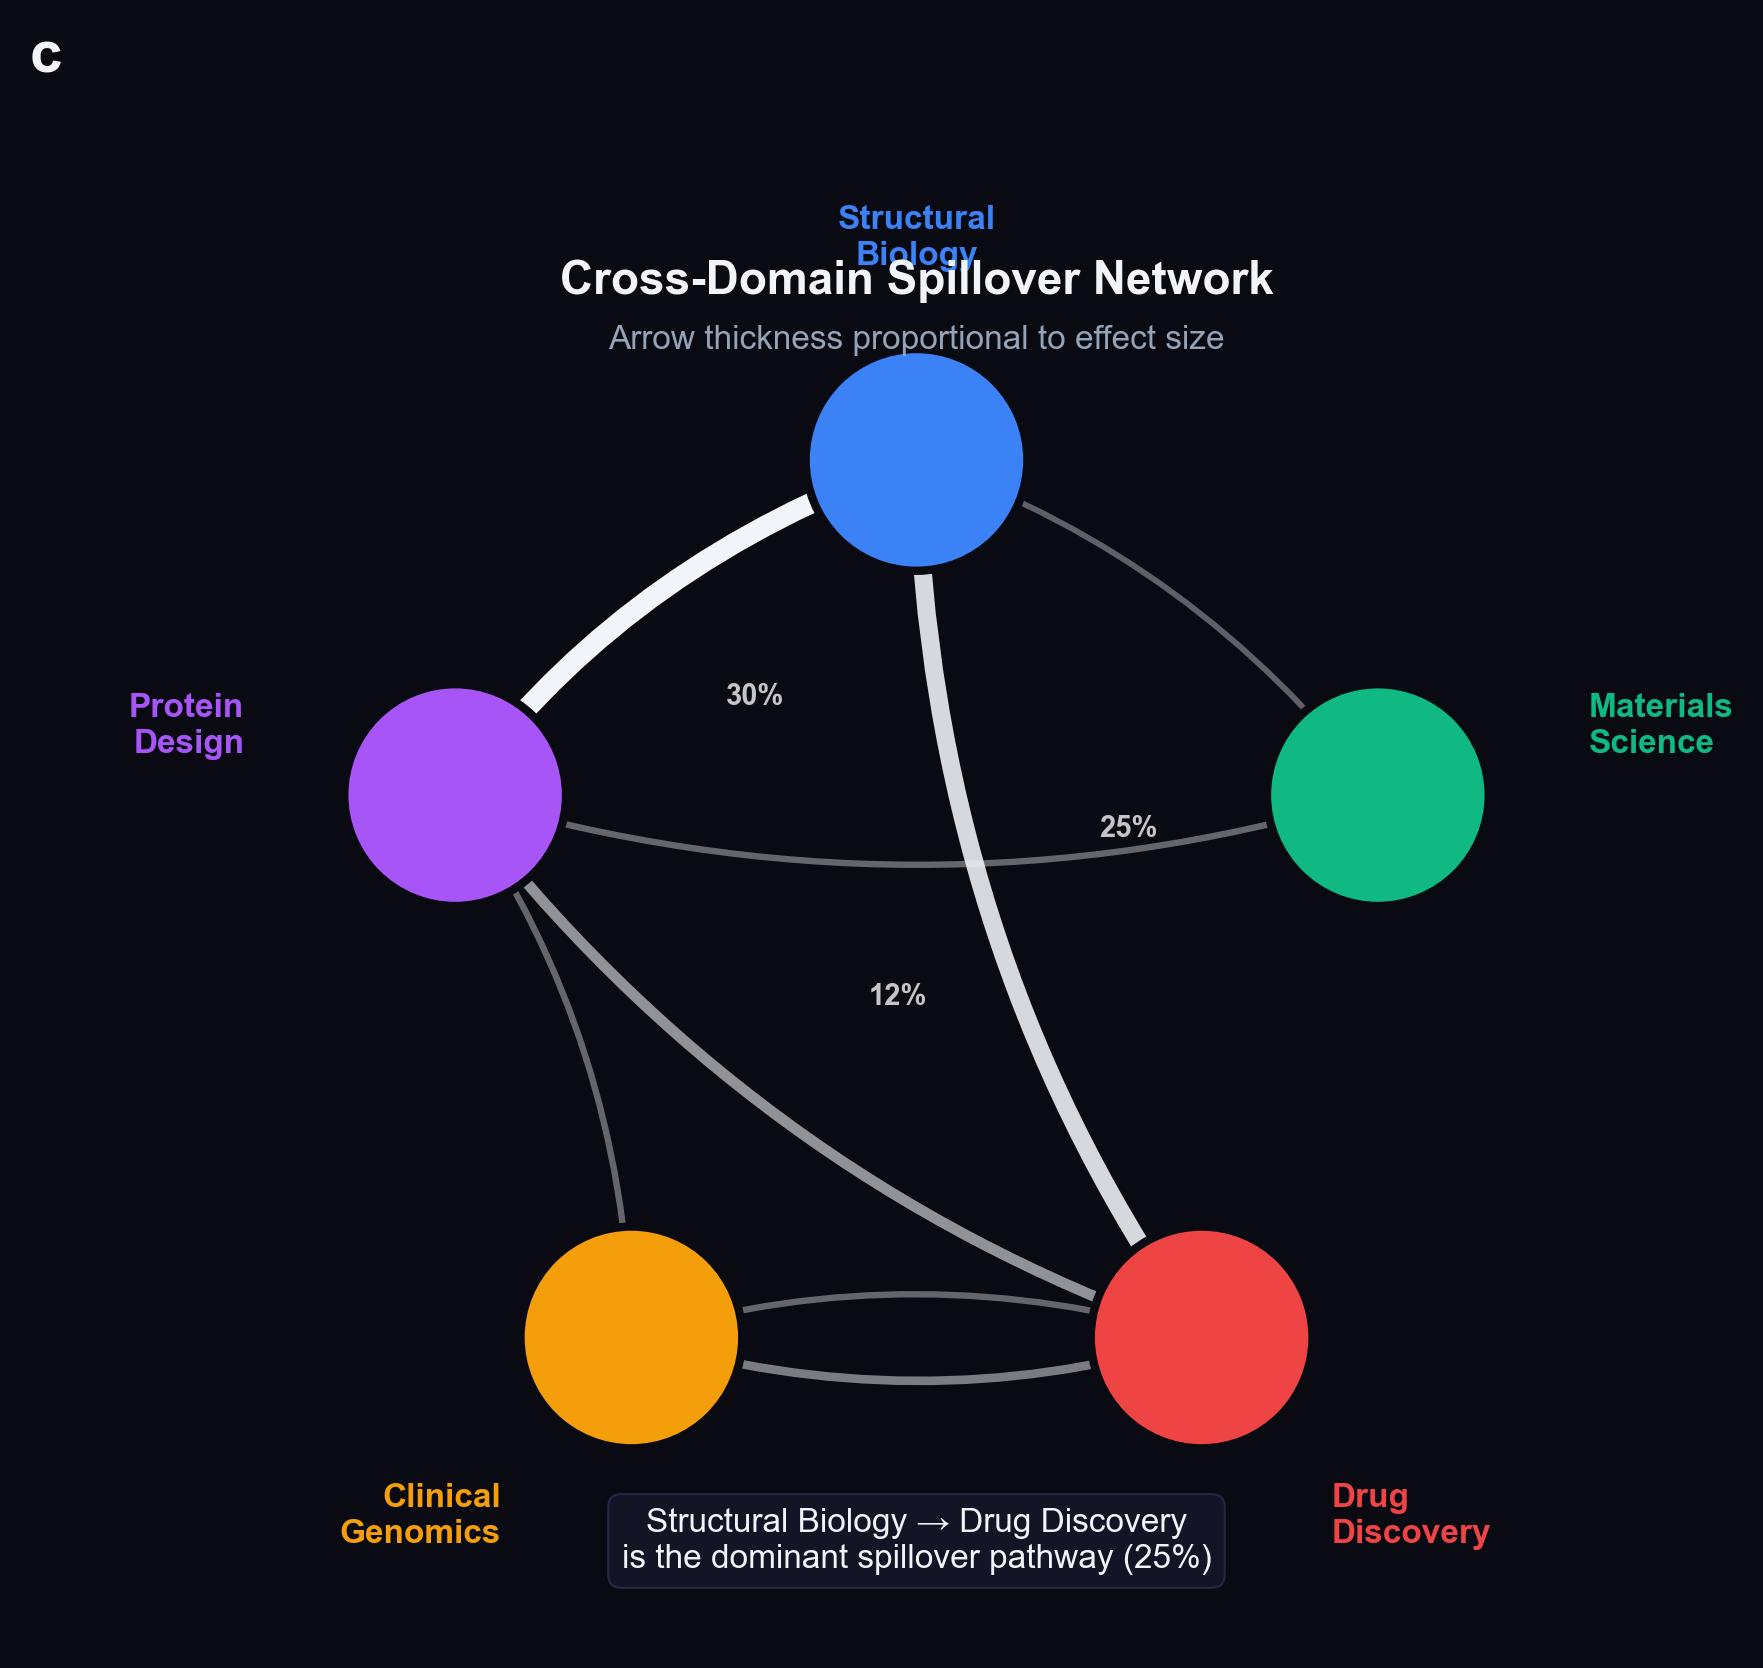
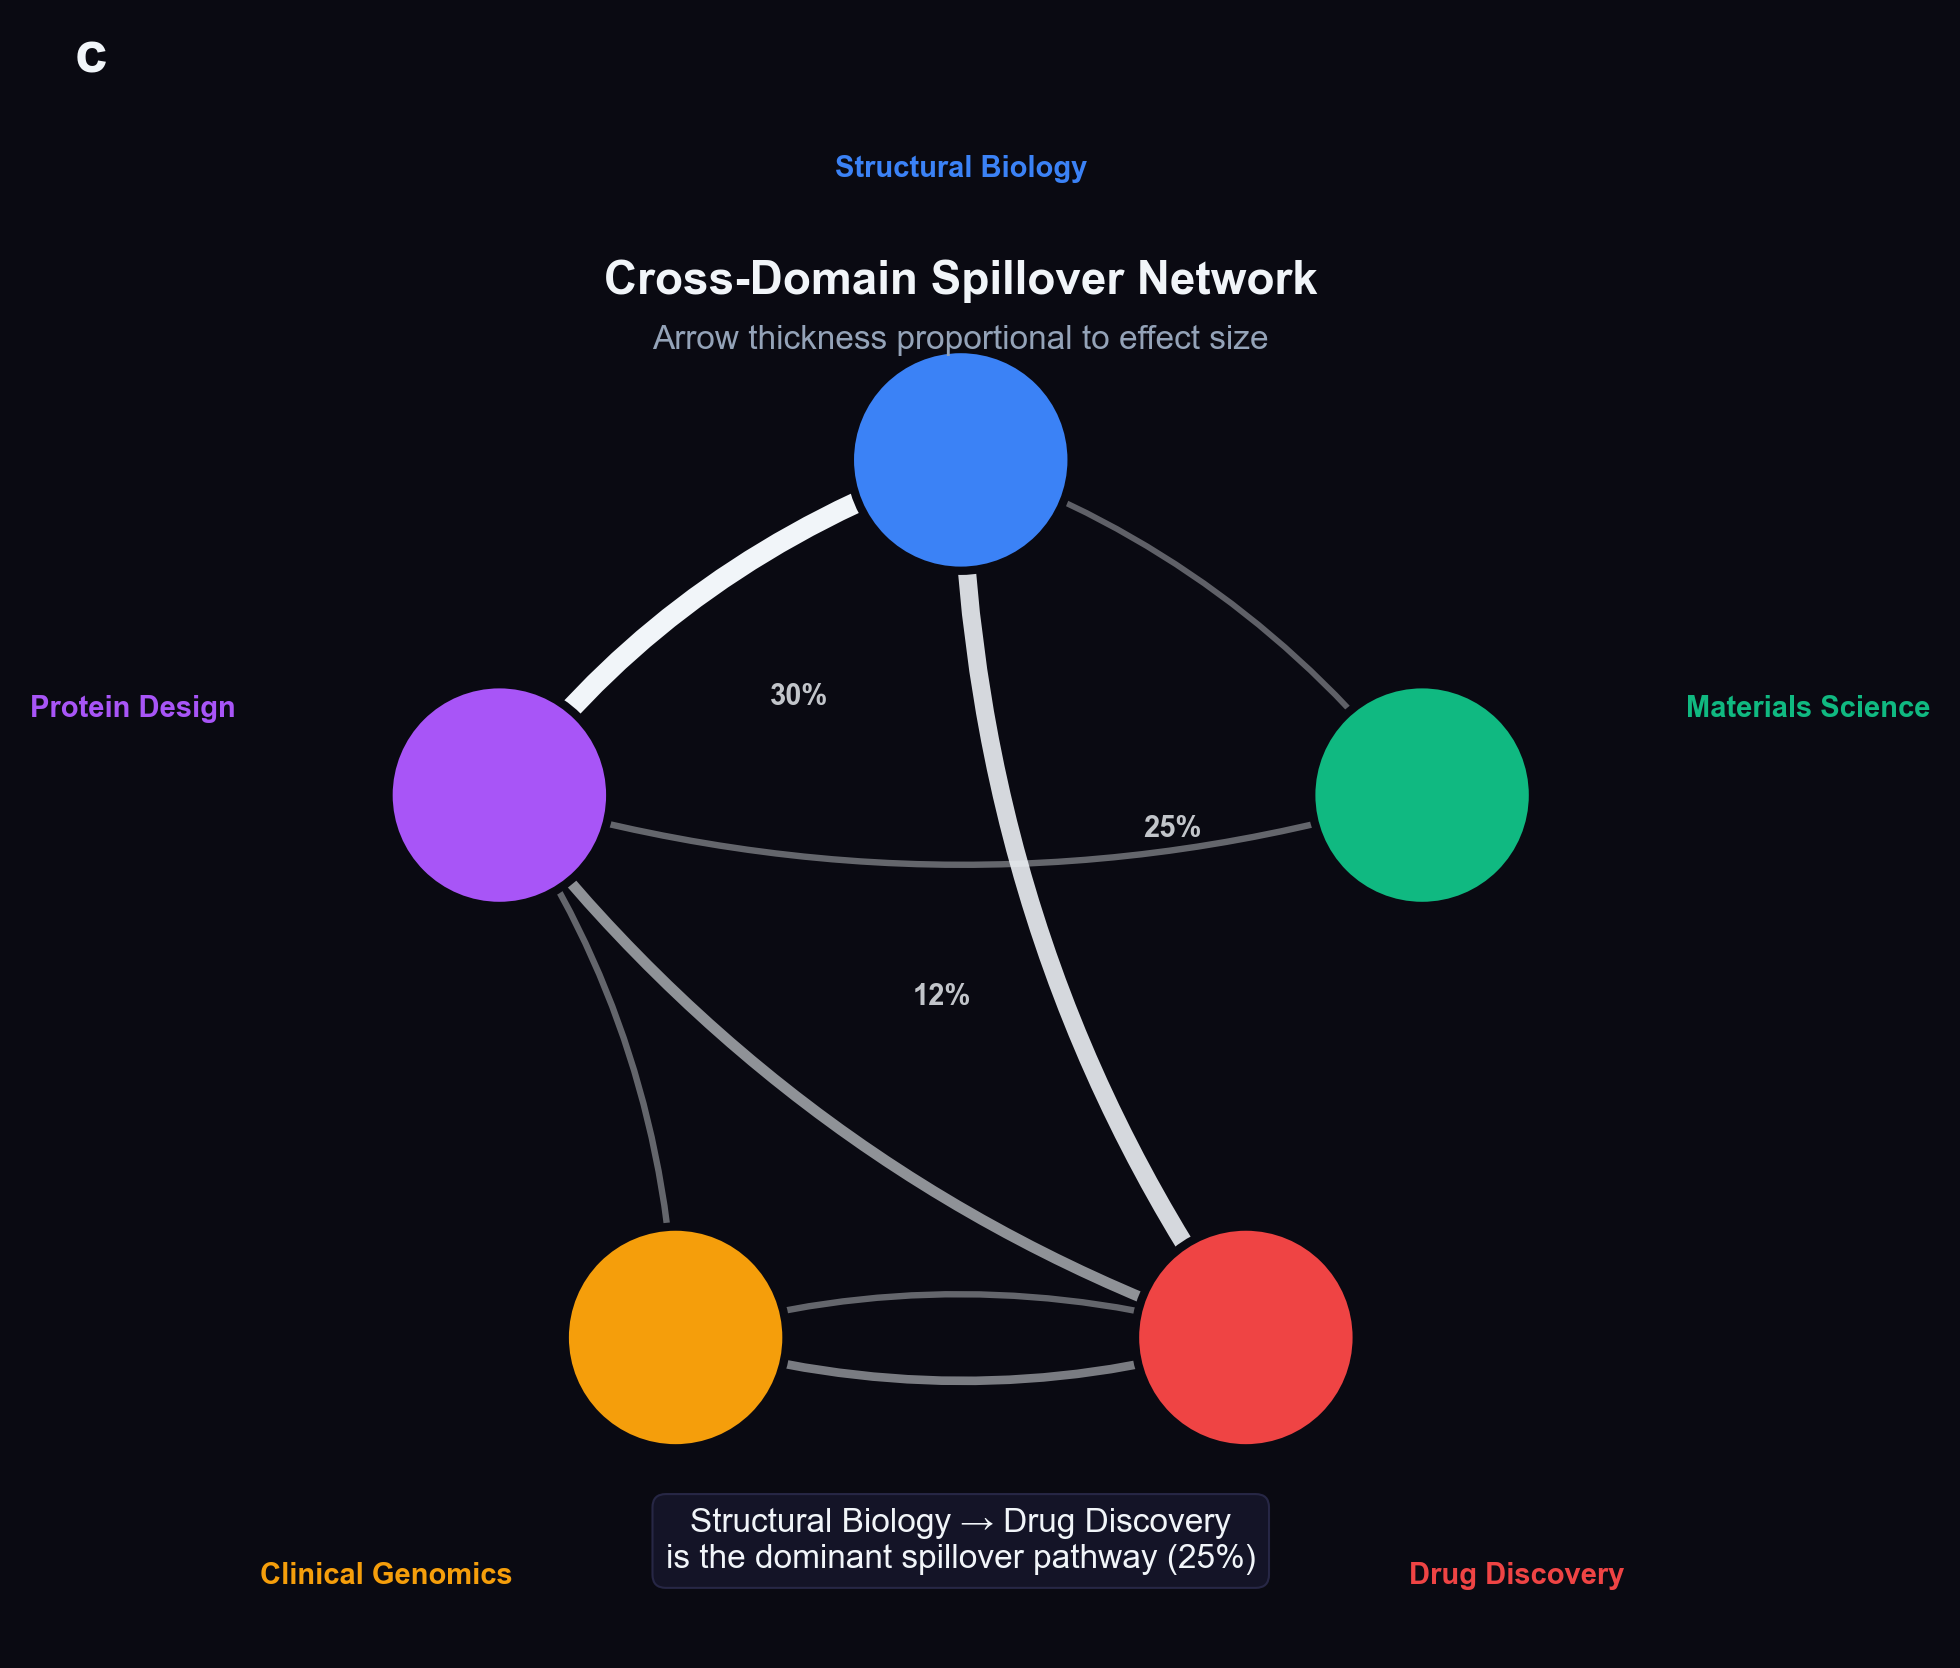
Fix overlapping text labels in spillover network figure
- Changed multi-line labels to single-line
- Increased label distance from nodes (0.08 → 0.12)
- Improved horizontal and vertical alignment logic

🤖 Generated with [Claude Code](https://claude.com/claude-code)

diff --git a/ai_research_acceleration_model/v1.1/visualizations.py b/ai_research_acceleration_model/v1.1/visualizations.py
@@ -417,6 +417,15 @@ def figure3_spillover_network():
 
     # Draw nodes
     node_size = 0.08
+    # Single-line labels to prevent overlap
+    single_line_names = {
+        'structural_biology': 'Structural Biology',
+        'protein_design': 'Protein Design',
+        'clinical_genomics': 'Clinical Genomics',
+        'drug_discovery': 'Drug Discovery',
+        'materials_science': 'Materials Science'
+    }
+
     for domain in domains:
         x, y = positions[domain]
         color = COLORS[domain]
@@ -426,20 +435,30 @@ def figure3_spillover_network():
                             linewidth=2, zorder=3)
         ax.add_patch(circle)
 
-        # Domain label (outside node)
+        # Domain label (outside node) - increased distance to prevent overlap
         angle = np.arctan2(y - 0.5, x - 0.5)
-        label_dist = node_size + 0.08
+        label_dist = node_size + 0.12  # Increased from 0.08
         label_x = x + label_dist * np.cos(angle)
         label_y = y + label_dist * np.sin(angle)
 
-        ha = 'center'
-        if label_x < 0.3:
+        # Better horizontal alignment based on position
+        if label_x < 0.35:
             ha = 'right'
-        elif label_x > 0.7:
+        elif label_x > 0.65:
             ha = 'left'
+        else:
+            ha = 'center'
 
-        ax.text(label_x, label_y, DOMAINS[domain]['name'], fontsize=8,
-                fontweight='bold', color=color, ha=ha, va='center')
+        # Vertical alignment based on position
+        if label_y > 0.7:
+            va = 'bottom'
+        elif label_y < 0.3:
+            va = 'top'
+        else:
+            va = 'center'
+
+        ax.text(label_x, label_y, single_line_names[domain], fontsize=7,
+                fontweight='bold', color=color, ha=ha, va=va)
 
     # Title and annotation
     ax.text(0.5, 0.97, 'Cross-Domain Spillover Network', fontsize=11,
